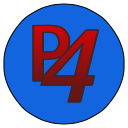
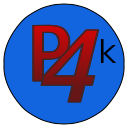
publish 3.4.0

Changed region(s): [[0.7812, 0.2812, 0.9062, 0.5]]

diff --git a/CHANGELOG.md b/CHANGELOG.md
@@ -1,5 +1,17 @@
 # Change log
 
+## [3.4.0] - 2020-01-29
+
+* Improve performance when refreshing the view (#12)
+  * Previously, the 'bottleneck' package used was introducing approximately half a second latency for each perforce command
+  * Bottleneck has been removed, and replaced with a custom implementation. As a result, most of the 'perforce.bottleneck' settings have been **removed** - only `perforce.bottleneck.maxConcurrent` remains. This controls how many perforce commands are allowed to run concurrently
+* Reduced the amount of command thrashing when performing a large number of operations at the same time (#12)
+  * For example, previously when editing 10 files at the same time (for example, because of a find and replace operation with 'Edit on file save' enabled), the scm view would be refreshed 10 times, and each refresh would use a minimum of 5 commands plus a minimum of 1 command per additional changelist
+  * Now, any actions that occur within one second of the previous action are collapsed in to one refresh call, and the number of perforce commands per refresh has been reduced
+  * There are still issues with doing a large find and replace for files that are not already open, when 'Edit on file save' is enabled - often the first run will fail to save the files, but if you revert everything and do the replace again, it may succeed. This may be a vscode issue. (Clicking 'overwrite' for each file seems to work)
+* If you do experience any issues with perforce commands overloading the perforce server, please raise an issue and include the "Perforce Log" output
+* Updated the extension icon. "Perfork!"
+
 ## [3.3.2] - 2020-01-23
 
 * Resolve another cause for the previous diff issue, where two perforce commands executing at the same time would be given the same ID, and only one of them would run
@@ -10,7 +22,7 @@
 
 ## [3.3.0] - 2020-01-22
 
-### **Note** This is the first release following the fork to mjcrouch.perforce
+### **Note** This is the first release following the fork to mjcrouch.perforce. All issue references below this point refer to issues in stef-levesque.vscode-perforce
 
 * Ability to shelve and unshelve whole changelists, and delete all shelved files for a changelist
 * Ability to diff shelved files against either the depot or the workspace file
